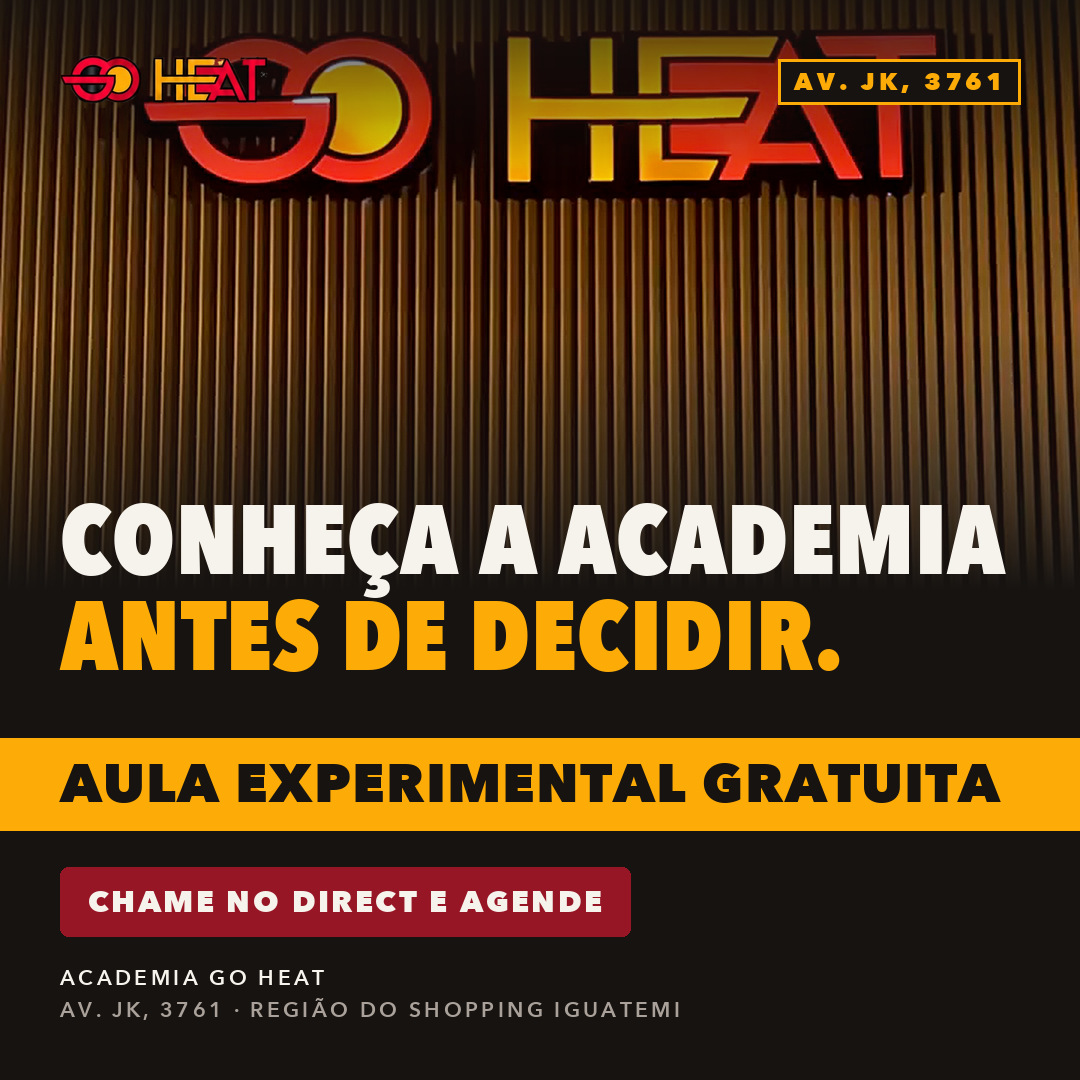
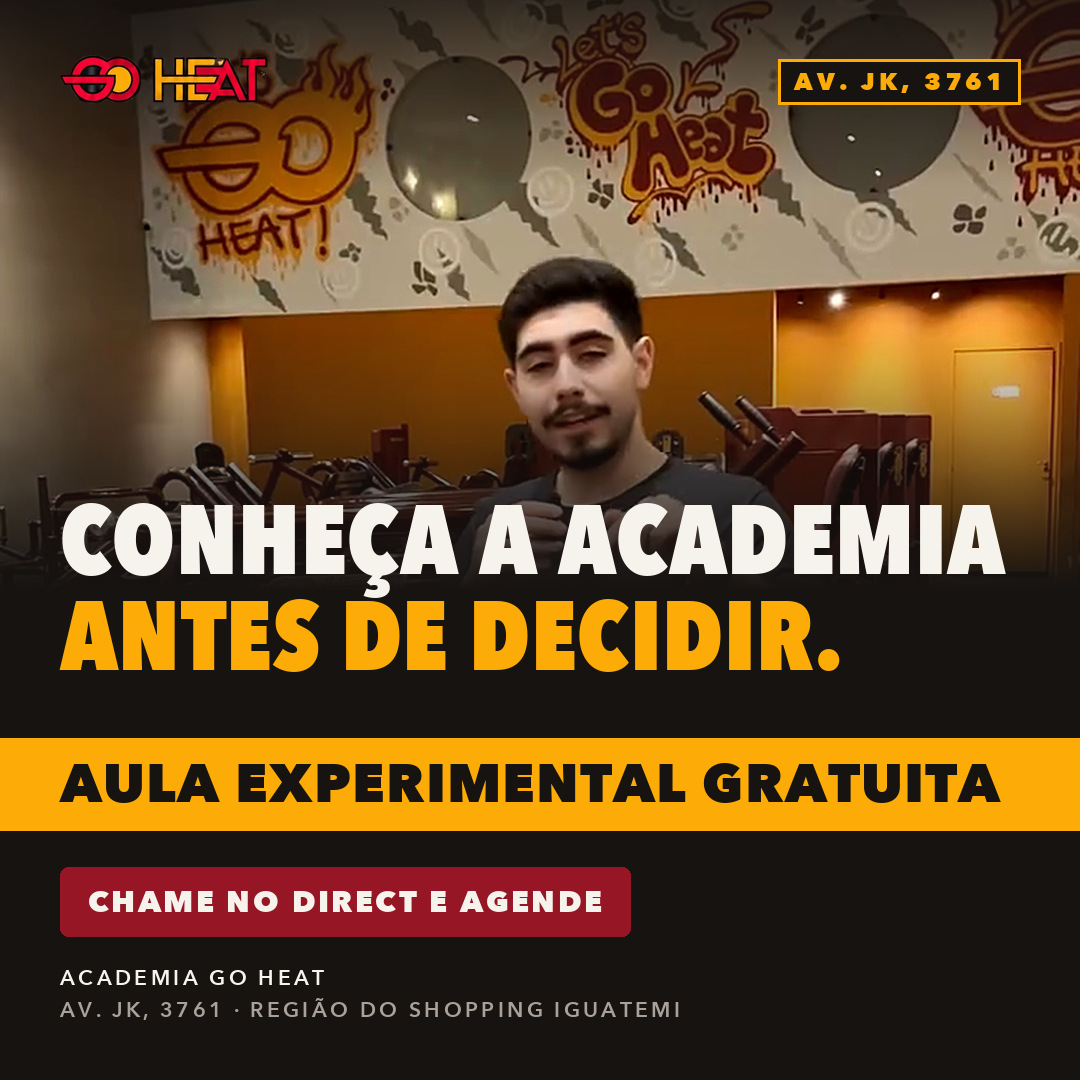
Go Heat: G09 com cena nova (salão com grafite)

diff --git a/go-heat/criativos-referencias/index.html b/go-heat/criativos-referencias/index.html
@@ -107,7 +107,7 @@ button{font:inherit;font-family:"IBM Plex Mono",monospace;font-size:13px;backgro
 </figure>
 <figure class="arte">
   <a href="artes/G09_CONHECA_ANTES_4x5.jpg" target="_blank"><img src="artes/G09_CONHECA_ANTES_4x5.jpg" alt="Conheça a academia antes de decidir" loading="lazy"></a>
-  <figcaption><span class="cod">G09</span><strong>Conheça a academia antes de decidir</strong><span class="d">Fachada com o letreiro, à noite. Convite para conhecer a casa.</span><span class="dl">Baixar <a href="artes/G09_CONHECA_ANTES_1x1.jpg" download>1:1</a> · <a href="artes/G09_CONHECA_ANTES_4x5.jpg" download>4:5</a> · <a href="artes/G09_CONHECA_ANTES_9x16.jpg" download>9:16</a></span></figcaption>
+  <figcaption><span class="cod">G09</span><strong>Conheça a academia antes de decidir</strong><span class="d">Salão com o grafite &quot;Let&#x27;s Go Heat&quot; e o professor recebendo. Convite para conhecer a casa.</span><span class="dl">Baixar <a href="artes/G09_CONHECA_ANTES_1x1.jpg" download>1:1</a> · <a href="artes/G09_CONHECA_ANTES_4x5.jpg" download>4:5</a> · <a href="artes/G09_CONHECA_ANTES_9x16.jpg" download>9:16</a></span></figcaption>
 </figure>
 <figure class="arte">
   <a href="artes/G10_MUSCULO_E_SAUDE_4x5.jpg" target="_blank"><img src="artes/G10_MUSCULO_E_SAUDE_4x5.jpg" alt="Músculo forte é saúde em dia" loading="lazy"></a>
